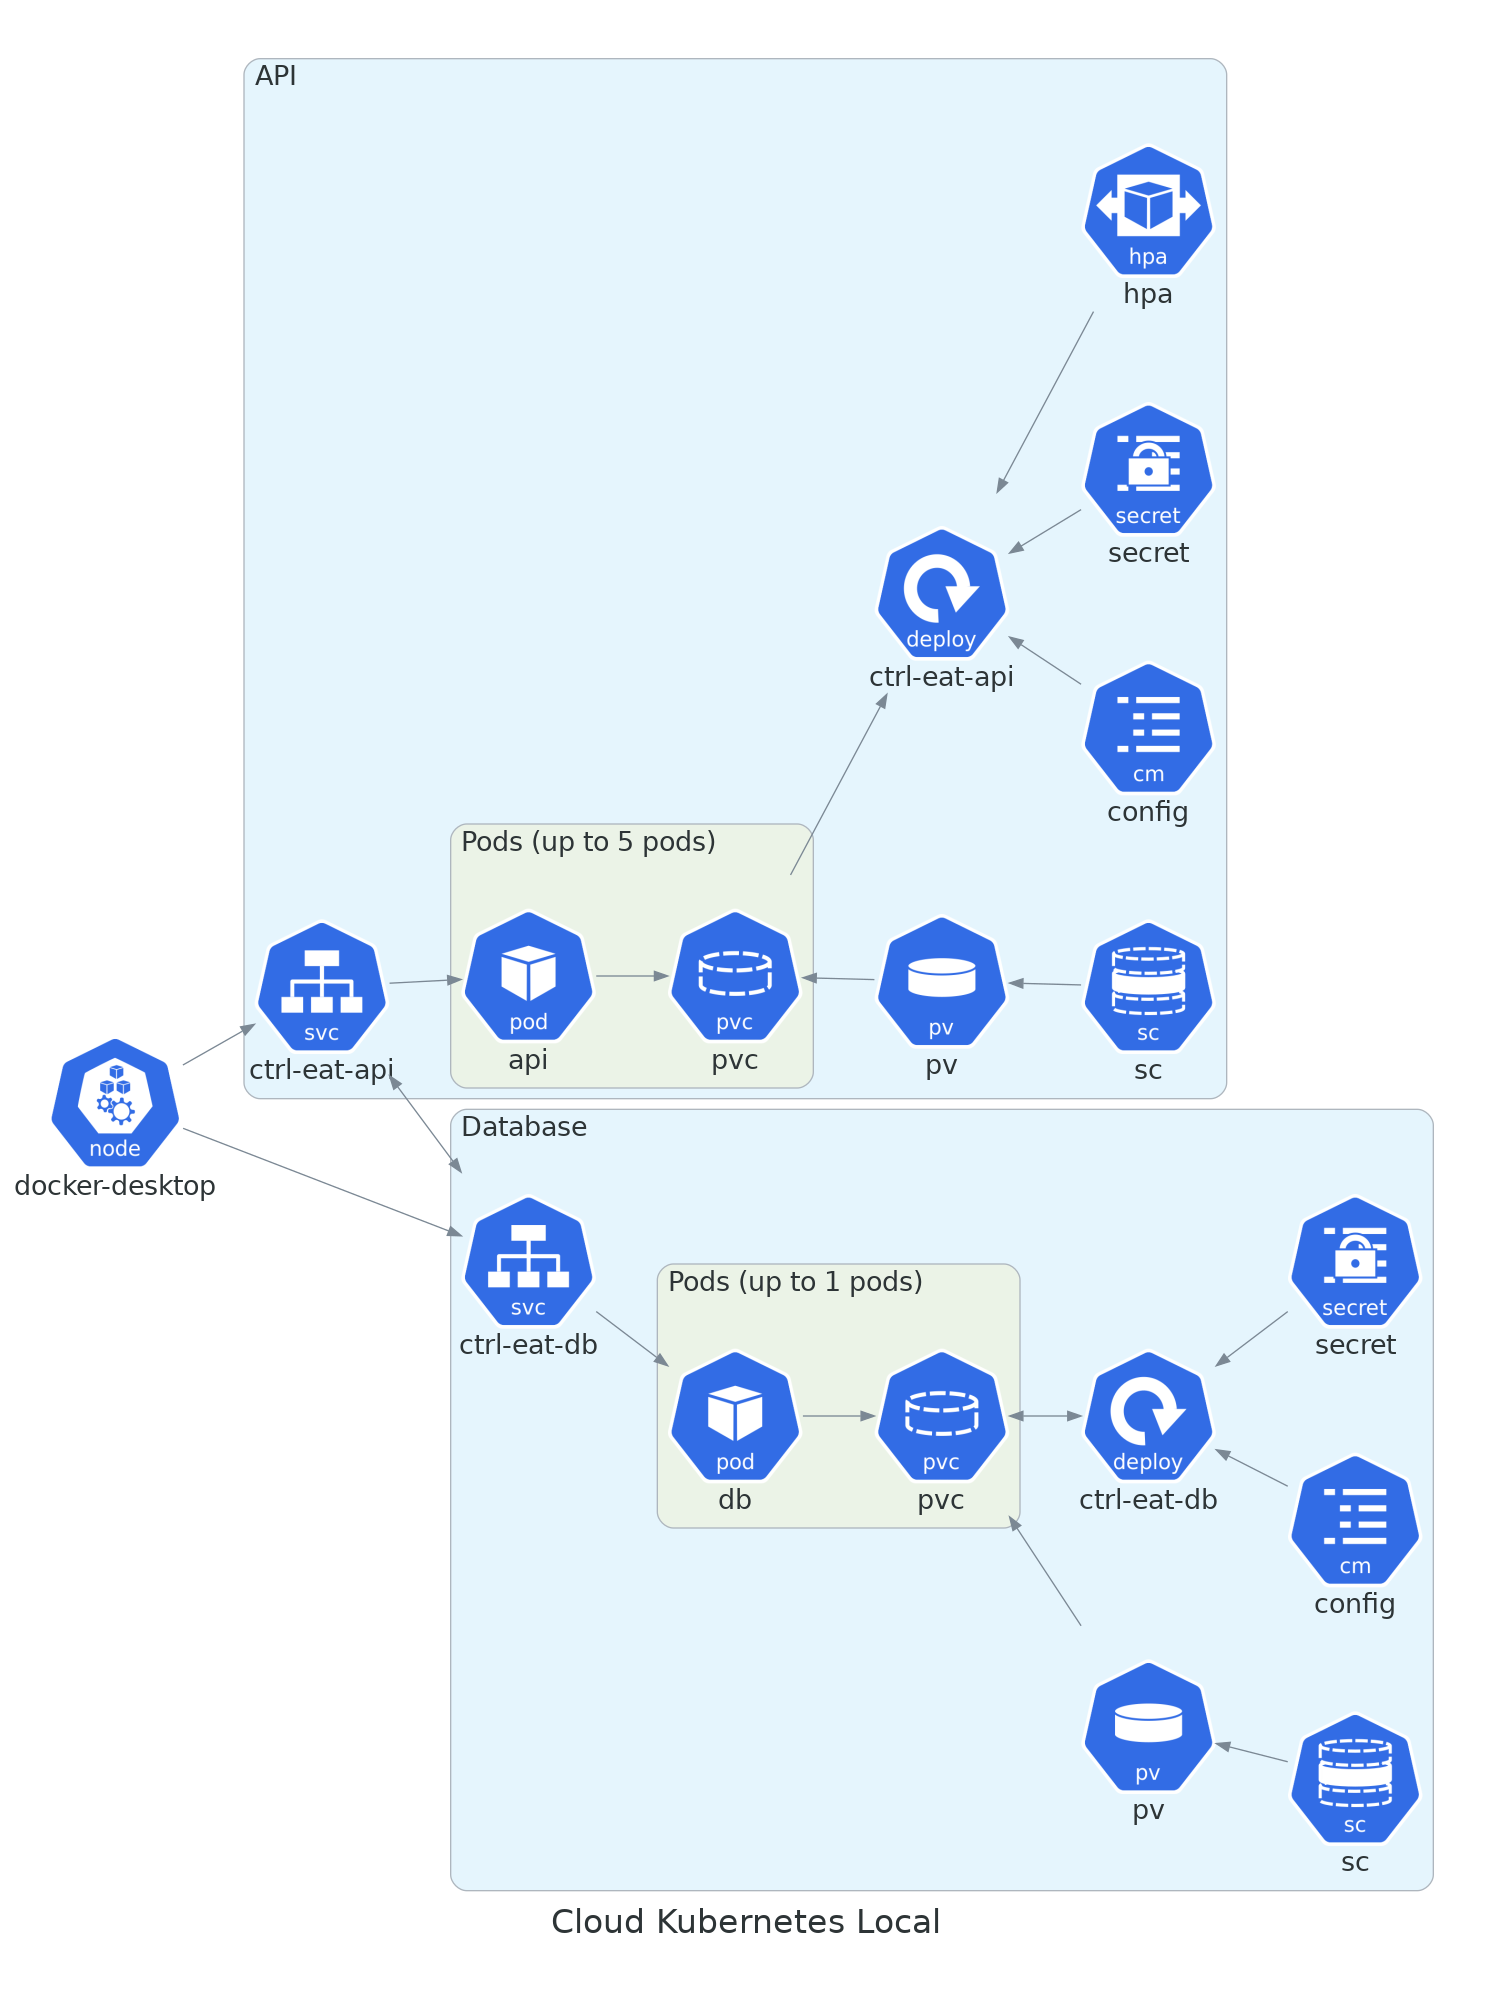
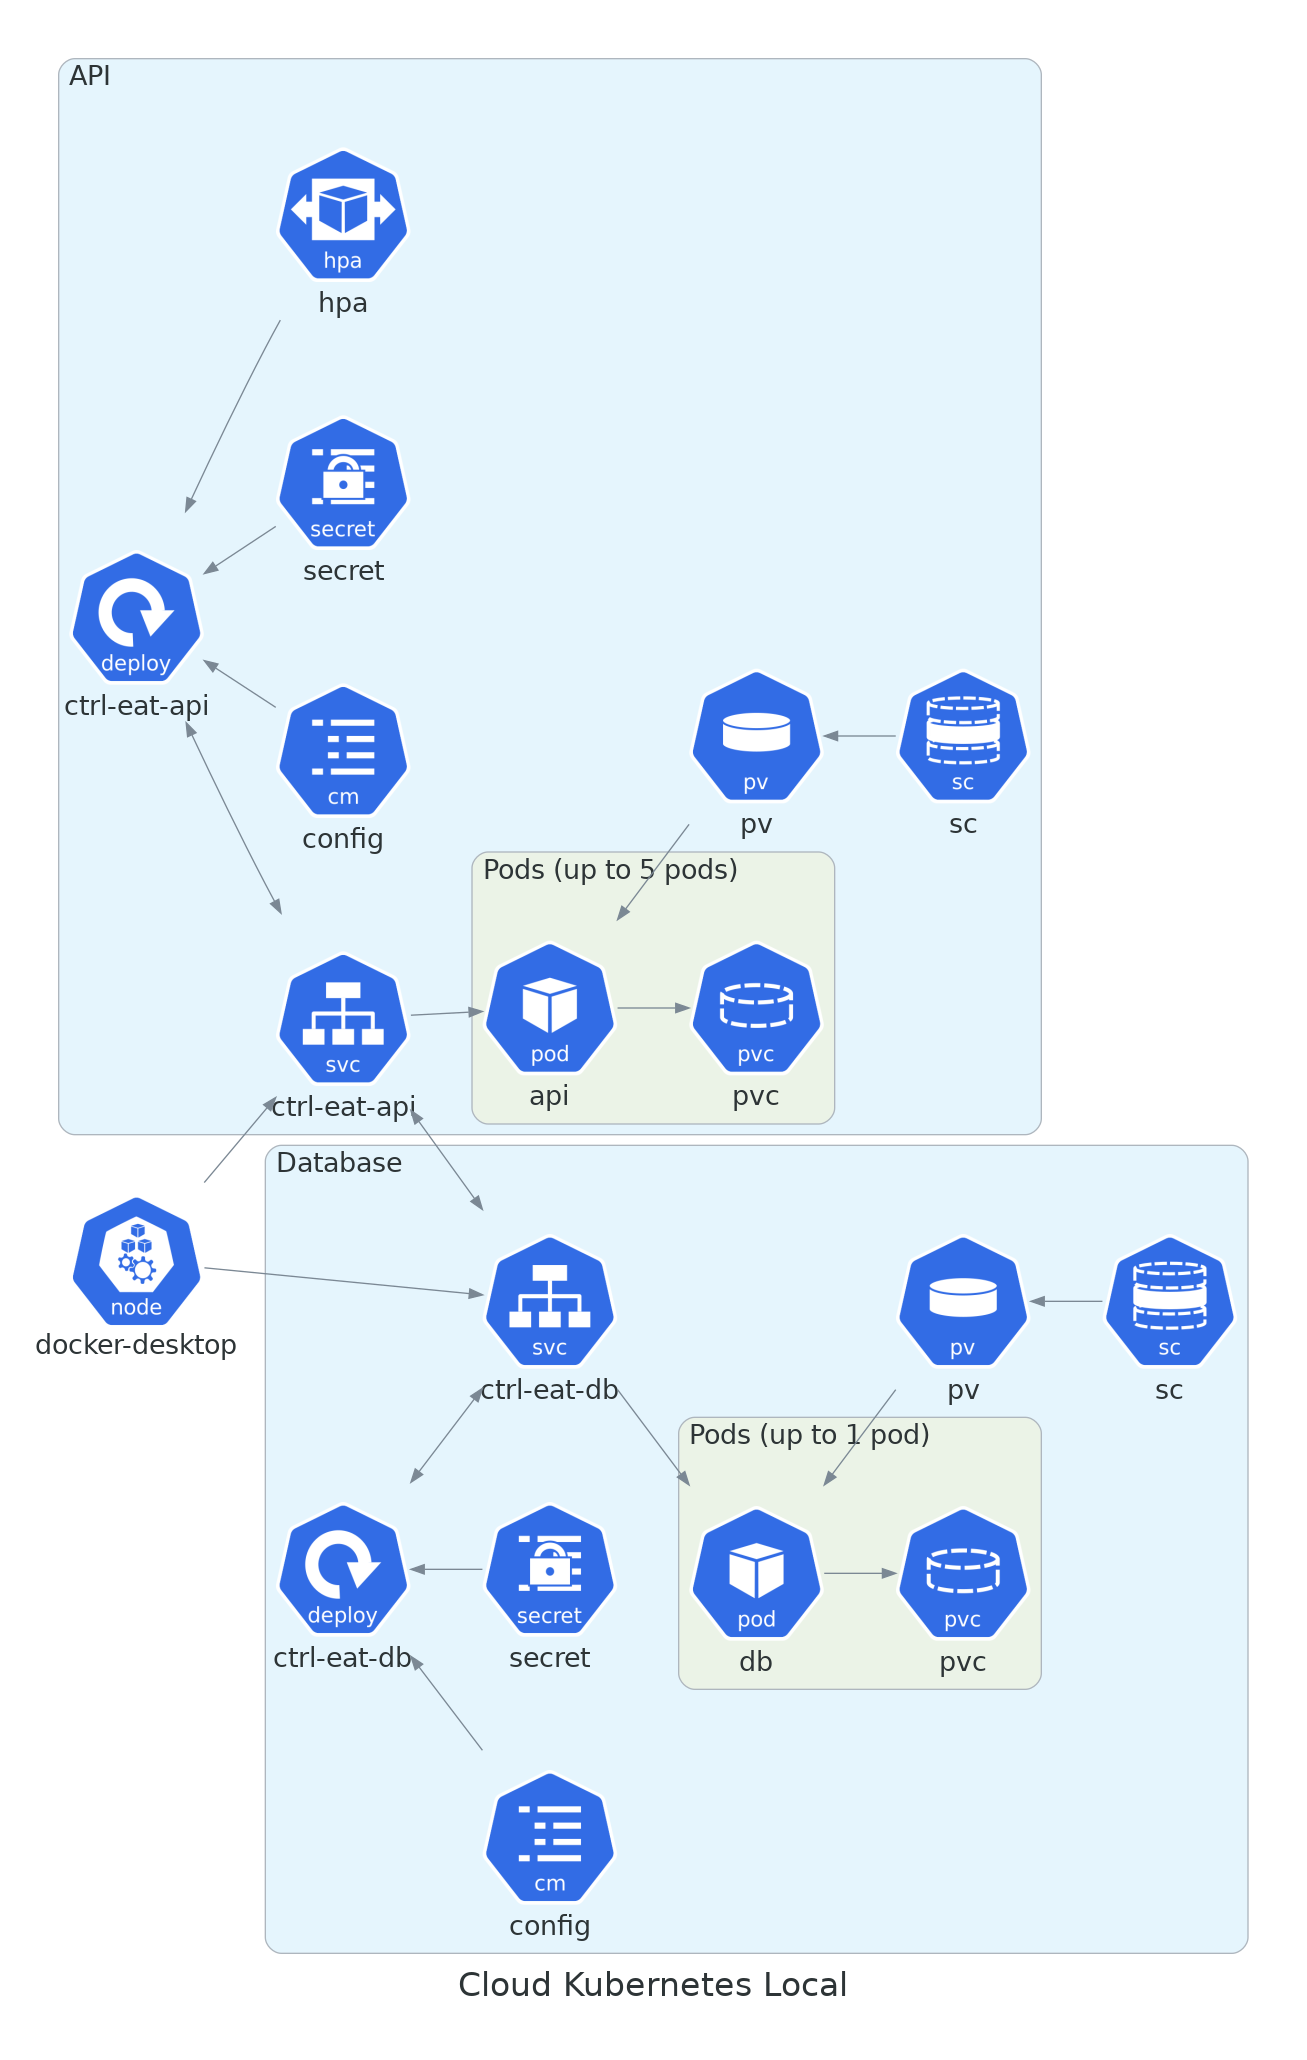
ajustes nos desenhos de arquitetura

diff --git a/docs/infra/cloud_kubernetes_local.py b/docs/infra/cloud_kubernetes_local.py
@@ -31,65 +31,59 @@ cluster_attr = {
 
 item_attr = {
     "fontsize": "20",
-    "height": "2.1"
+    "height": "2.2"
 }
 
-with Diagram("Cloud Kubernetes Local", show=False, graph_attr=diagram_attr):
+with Diagram("Cloud Kubernetes Local", show=False, graph_attr=diagram_attr, direction="LR"):
     node = Node("docker-desktop", **node_attr)        
 
     with Cluster("API", graph_attr=cluster_attr):
+        deployment = Deployment("ctrl-eat-api", **item_attr)
+
         api_service = Service("ctrl-eat-api", **item_attr)
         pv = PV("pv", **item_attr)
         sc = StorageClass("sc", **item_attr)
-
-        node >> api_service
-
-        pods = []
-
-        with Cluster("Pods (up to 5 pods)", graph_attr=cluster_attr):
-            for _ in range(1):
-                pod = Pod("api", **item_attr)
-                pvc = PVC("pvc", **item_attr)
-                pods.append(api_service >> pod >> pvc)
         
-        pods << pv << sc
-
-        deployment = Deployment("ctrl-eat-api", **item_attr)
         config = ConfigMap("config", **item_attr)
         secret = Secret("secret", **item_attr)
         hpa = HPA("hpa", **item_attr)
 
+        deployment >> Edge(label="") << api_service
         deployment << config
         deployment << secret
-
         deployment << hpa
 
-        pods >> deployment
+        node >> api_service
+
+        with Cluster("Pods (up to 5 pods)", graph_attr=cluster_attr):
+            pod = Pod("api", **item_attr)
+            pvc = PVC("pvc", **item_attr)
+
+            pod << pv << sc
+            api_service >> pod >> pvc
+               
 
     with Cluster("Database", graph_attr=cluster_attr):
+        deployment = Deployment("ctrl-eat-db", **item_attr)
+        
         db_service = Service("ctrl-eat-db", **item_attr)
         pv = PV("pv", **item_attr)
         sc = StorageClass("sc", **item_attr)
 
-        api_service >> Edge(label="") << db_service
-
-        node >> db_service
-
-        pods = []
-
-        with Cluster("Pods (up to 1 pods)", graph_attr=cluster_attr):
-            for _ in range(1):
-                pod = Pod("db", **item_attr)
-                pvc = PVC("pvc", **item_attr)
-                pods.append(db_service >> pod >> pvc)
-        
-        pods << pv << sc
-
-        deployment = Deployment("ctrl-eat-db", **item_attr)
         config = ConfigMap("config", **item_attr)
         secret = Secret("secret", **item_attr)
 
+        api_service >> Edge(label="") << db_service
+
+        deployment >> Edge(label="") << db_service
         deployment << config
         deployment << secret
 
-        pods >> Edge(label="") << deployment
+        node >> db_service
+
+        with Cluster("Pods (up to 1 pod)", graph_attr=cluster_attr):
+            pod = Pod("db", **item_attr)
+            pvc = PVC("pvc", **item_attr)
+        
+            pod << pv << sc
+            db_service >> pod >> pvc

diff --git a/docs/infra/cloud_kubernetes_aws.py b/docs/infra/cloud_kubernetes_aws.py
@@ -1,5 +1,5 @@
 from diagrams import Cluster, Diagram
-from diagrams.aws.compute import ECS, EKS
+from diagrams.aws.compute import EC2, EKS
 from diagrams.aws.storage import S3
 from diagrams.aws.security import SecretsManager
 from diagrams.aws.management import SystemsManagerParameterStore as ParameterStore
@@ -53,7 +53,7 @@ with Diagram("Cloud Kubernetes AWS", show=False, graph_attr=diagram_attr):
                 alb = ALB("ALB", **item_attr)
                 api_gateway >> alb
 
-                s3 = S3("Bucket /images")
+                s3 = S3("Bucket /images", **item_attr)
                 secrets_manager = SecretsManager("Secrets", **item_attr)
                 parameter_store = ParameterStore("Parameters", **item_attr)
                 rds = RDS("RDS", **item_attr)
@@ -68,7 +68,7 @@ with Diagram("Cloud Kubernetes AWS", show=False, graph_attr=diagram_attr):
                     labels = ["...", "Pod 1", "Pod 5"]
 
                     for i in range(0, 3):
-                        pod = ECS(labels[i], **item_attr)
+                        pod = EC2(labels[i], **item_attr)
                         pod >> s3
                         pod >> secrets_manager
                         pod >> parameter_store

diff --git a/docs/infra/cloud_aws_database_migrations.py b/docs/infra/cloud_aws_database_migrations.py
@@ -16,19 +16,19 @@ diagram_attr = {
 }
 
 cluster_attr = {
-    "fontsize": "20",
+    "fontsize": "15",
     "size": "5",
     "margin": "8",
     "pad": "2"
 }
 
 item_attr = {
-    "fontsize": "20",
+    "fontsize": "15",
     "height": "2.2"
 }
 
 last_step_label = """
-4. descompact .zip files
+4. unzip .zip files
 5. apply migrations
 6. delete .zip files
 """
@@ -43,7 +43,7 @@ with Diagram(diagram_label, show=False, graph_attr=diagram_attr, direction="LR")
     github = GithubActions("Github Actions", **item_attr)
 
     with Cluster("AWS", graph_attr=cluster_attr):
-        s3 = S3("Bucket /migrations", **item_attr)
+        s3 = S3("/migrations", **item_attr)
         lambda_function = Lambda("Lambda Migrator", **item_attr)
         rds = RDS("RDS", **item_attr)
 
